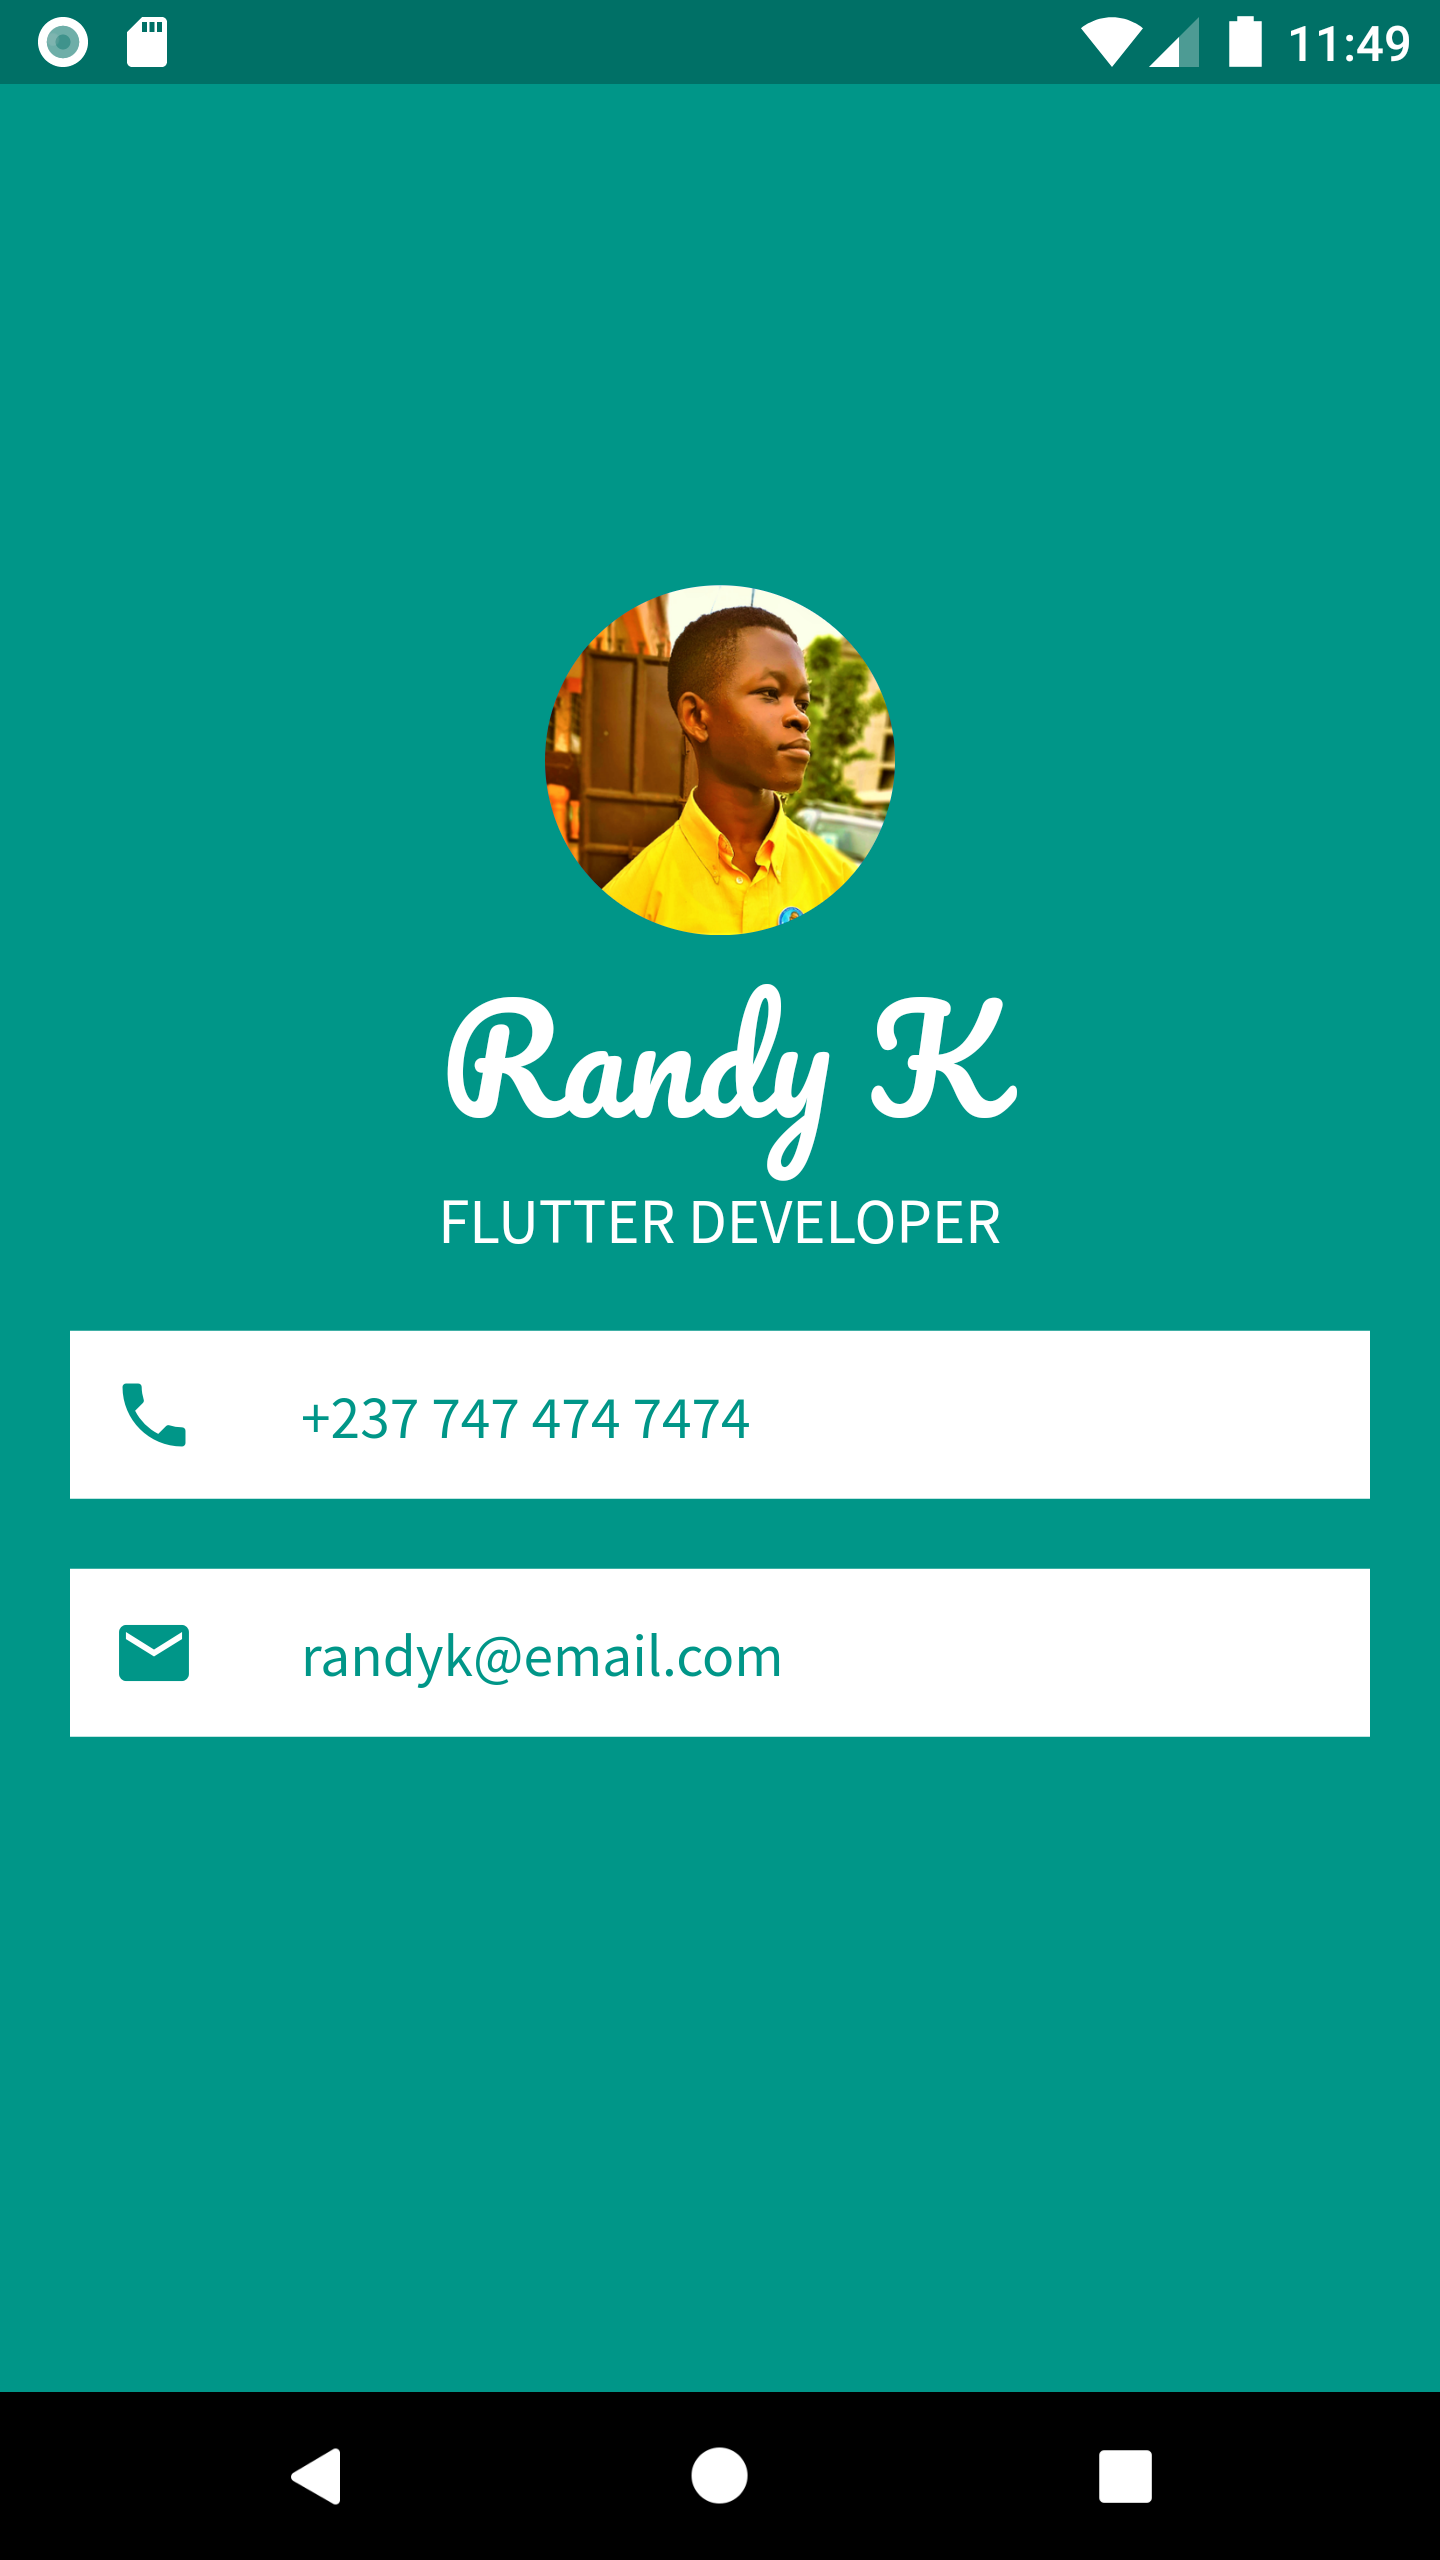
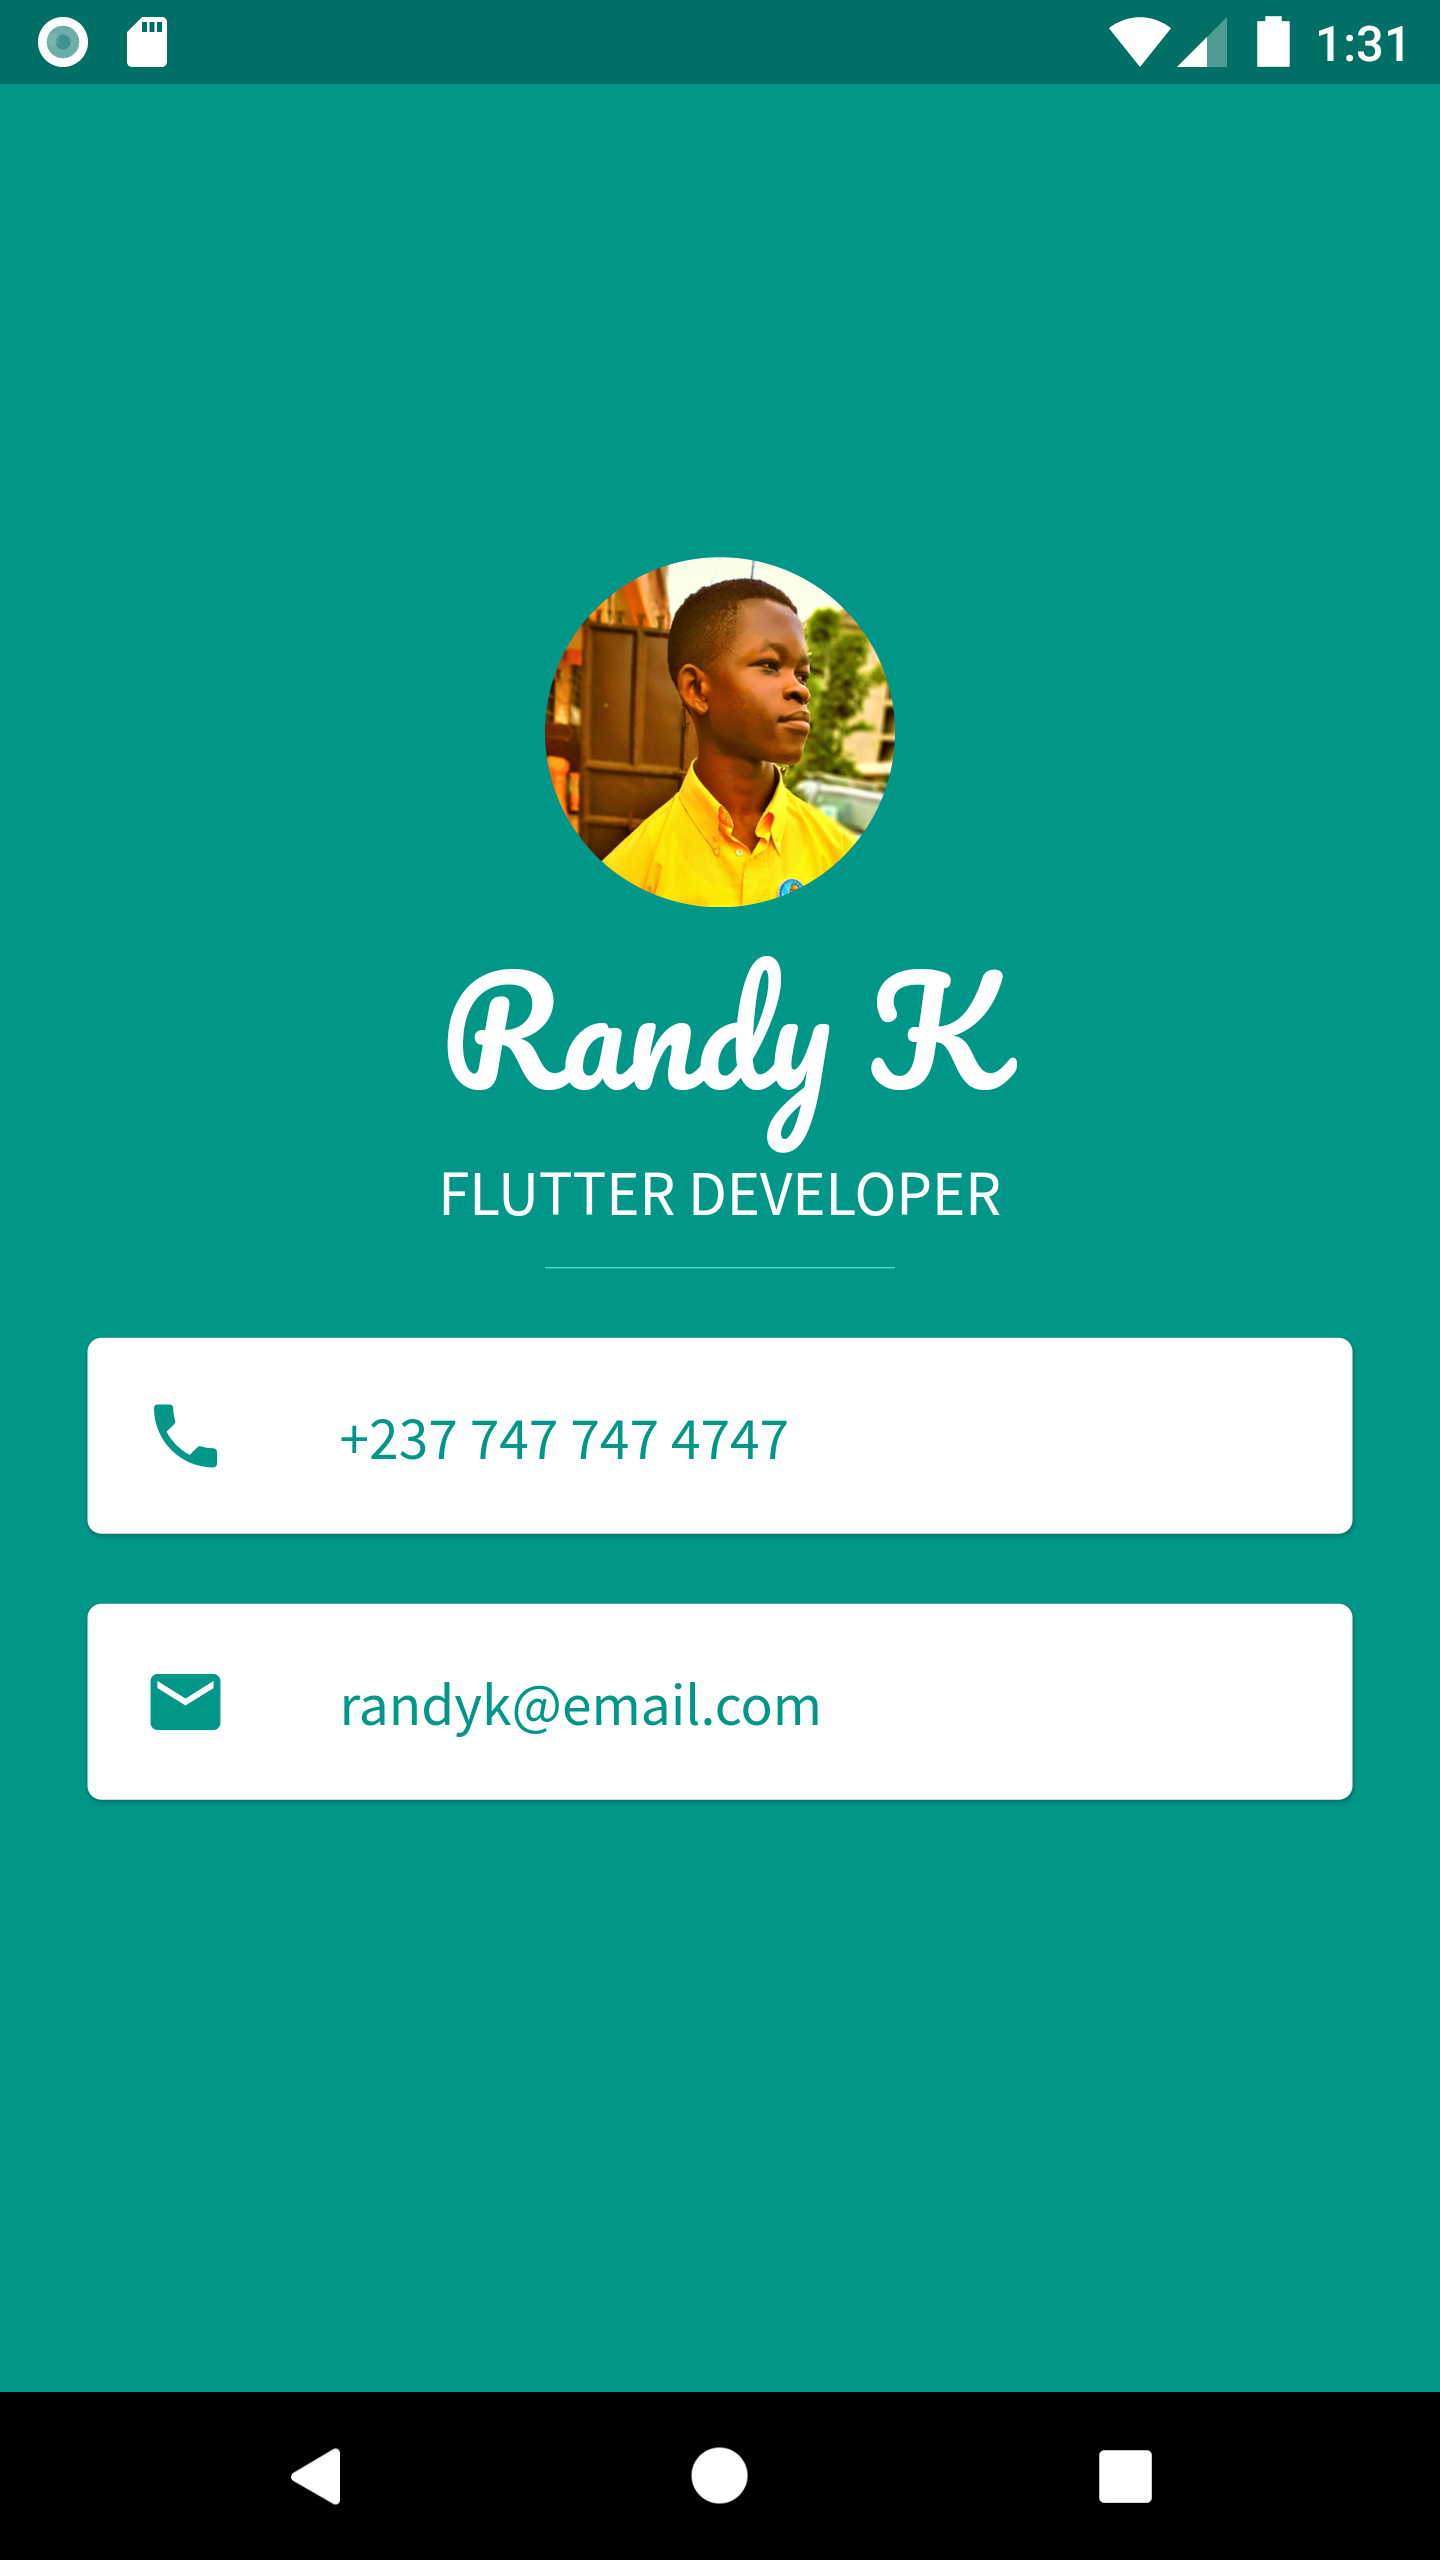
finalized with day 23

diff --git a/lib/screens/miCard.dart b/lib/screens/miCard.dart
@@ -28,58 +28,53 @@ class MiCard extends StatelessWidget {
               color: Colors.white,
             ),
           ),
-          Container(
-            margin: EdgeInsets.only(
-              top: 20,
-              left: 20,
-              right: 20,
-            ),
-            padding: EdgeInsets.all(12),
-            color: Colors.white,
-            child: Row(
-              children: [
-                Icon(
-                  Icons.phone,
-                  color: Colors.teal,
-                ),
-                SizedBox(
-                  width: 30,
-                ),
-                Text(
-                  "+237 747 474 7474",
-                  style: TextStyle(
-                    fontSize: 17,
-                    fontFamily: 'SourceSansPro',
-                    color: Colors.teal,
-                  ),
-                ),
-              ],
+          SizedBox(
+            height: 20,
+            width: 100,
+            child: Divider(
+              color: Colors.tealAccent,
             ),
           ),
-          Container(
-            margin: EdgeInsets.all(20),
-            padding: EdgeInsets.all(12),
-            color: Colors.white,
-            child: Row(
-              children: [
-                Icon(
-                  Icons.email,
-                  color: Colors.teal,
-                ),
-                SizedBox(
-                  width: 30,
-                ),
-                Text(
-                  "randyk@email.com",
-                  style: TextStyle(
-                    fontSize: 17,
-                    fontFamily: 'SourceSansPro',
-                    color: Colors.teal,
-                  ),
-                ),
-              ],
+          Card(
+            margin: EdgeInsets.symmetric(
+              horizontal: 25,
+              vertical: 10,
             ),
-          )
+            child: ListTile(
+              leading: Icon(
+                Icons.phone,
+                color: Colors.teal,
+              ),
+              title: Text(
+                "+237 747 747 4747",
+                style: TextStyle(
+                  color: Colors.teal,
+                  fontFamily: 'SourceSansPro',
+                  fontSize: 17,
+                ),
+              ),
+            ),
+          ),
+          Card(
+            margin: EdgeInsets.symmetric(
+              horizontal: 25,
+              vertical: 10,
+            ),
+            child: ListTile(
+              leading: Icon(
+                Icons.email,
+                color: Colors.teal,
+              ),
+              title: Text(
+                "randyk@email.com",
+                style: TextStyle(
+                  color: Colors.teal,
+                  fontFamily: 'SourceSansPro',
+                  fontSize: 17,
+                ),
+              ),
+            ),
+          ),
         ],
       ),
     );

diff --git a/lib/main.dart b/lib/main.dart
@@ -1,6 +1,6 @@
 import 'package:flutter/material.dart';
 
-import './screens/randomWords.dart';
+import 'screens/miCard.dart';
 
 void main() => runApp(MyApp());
 
